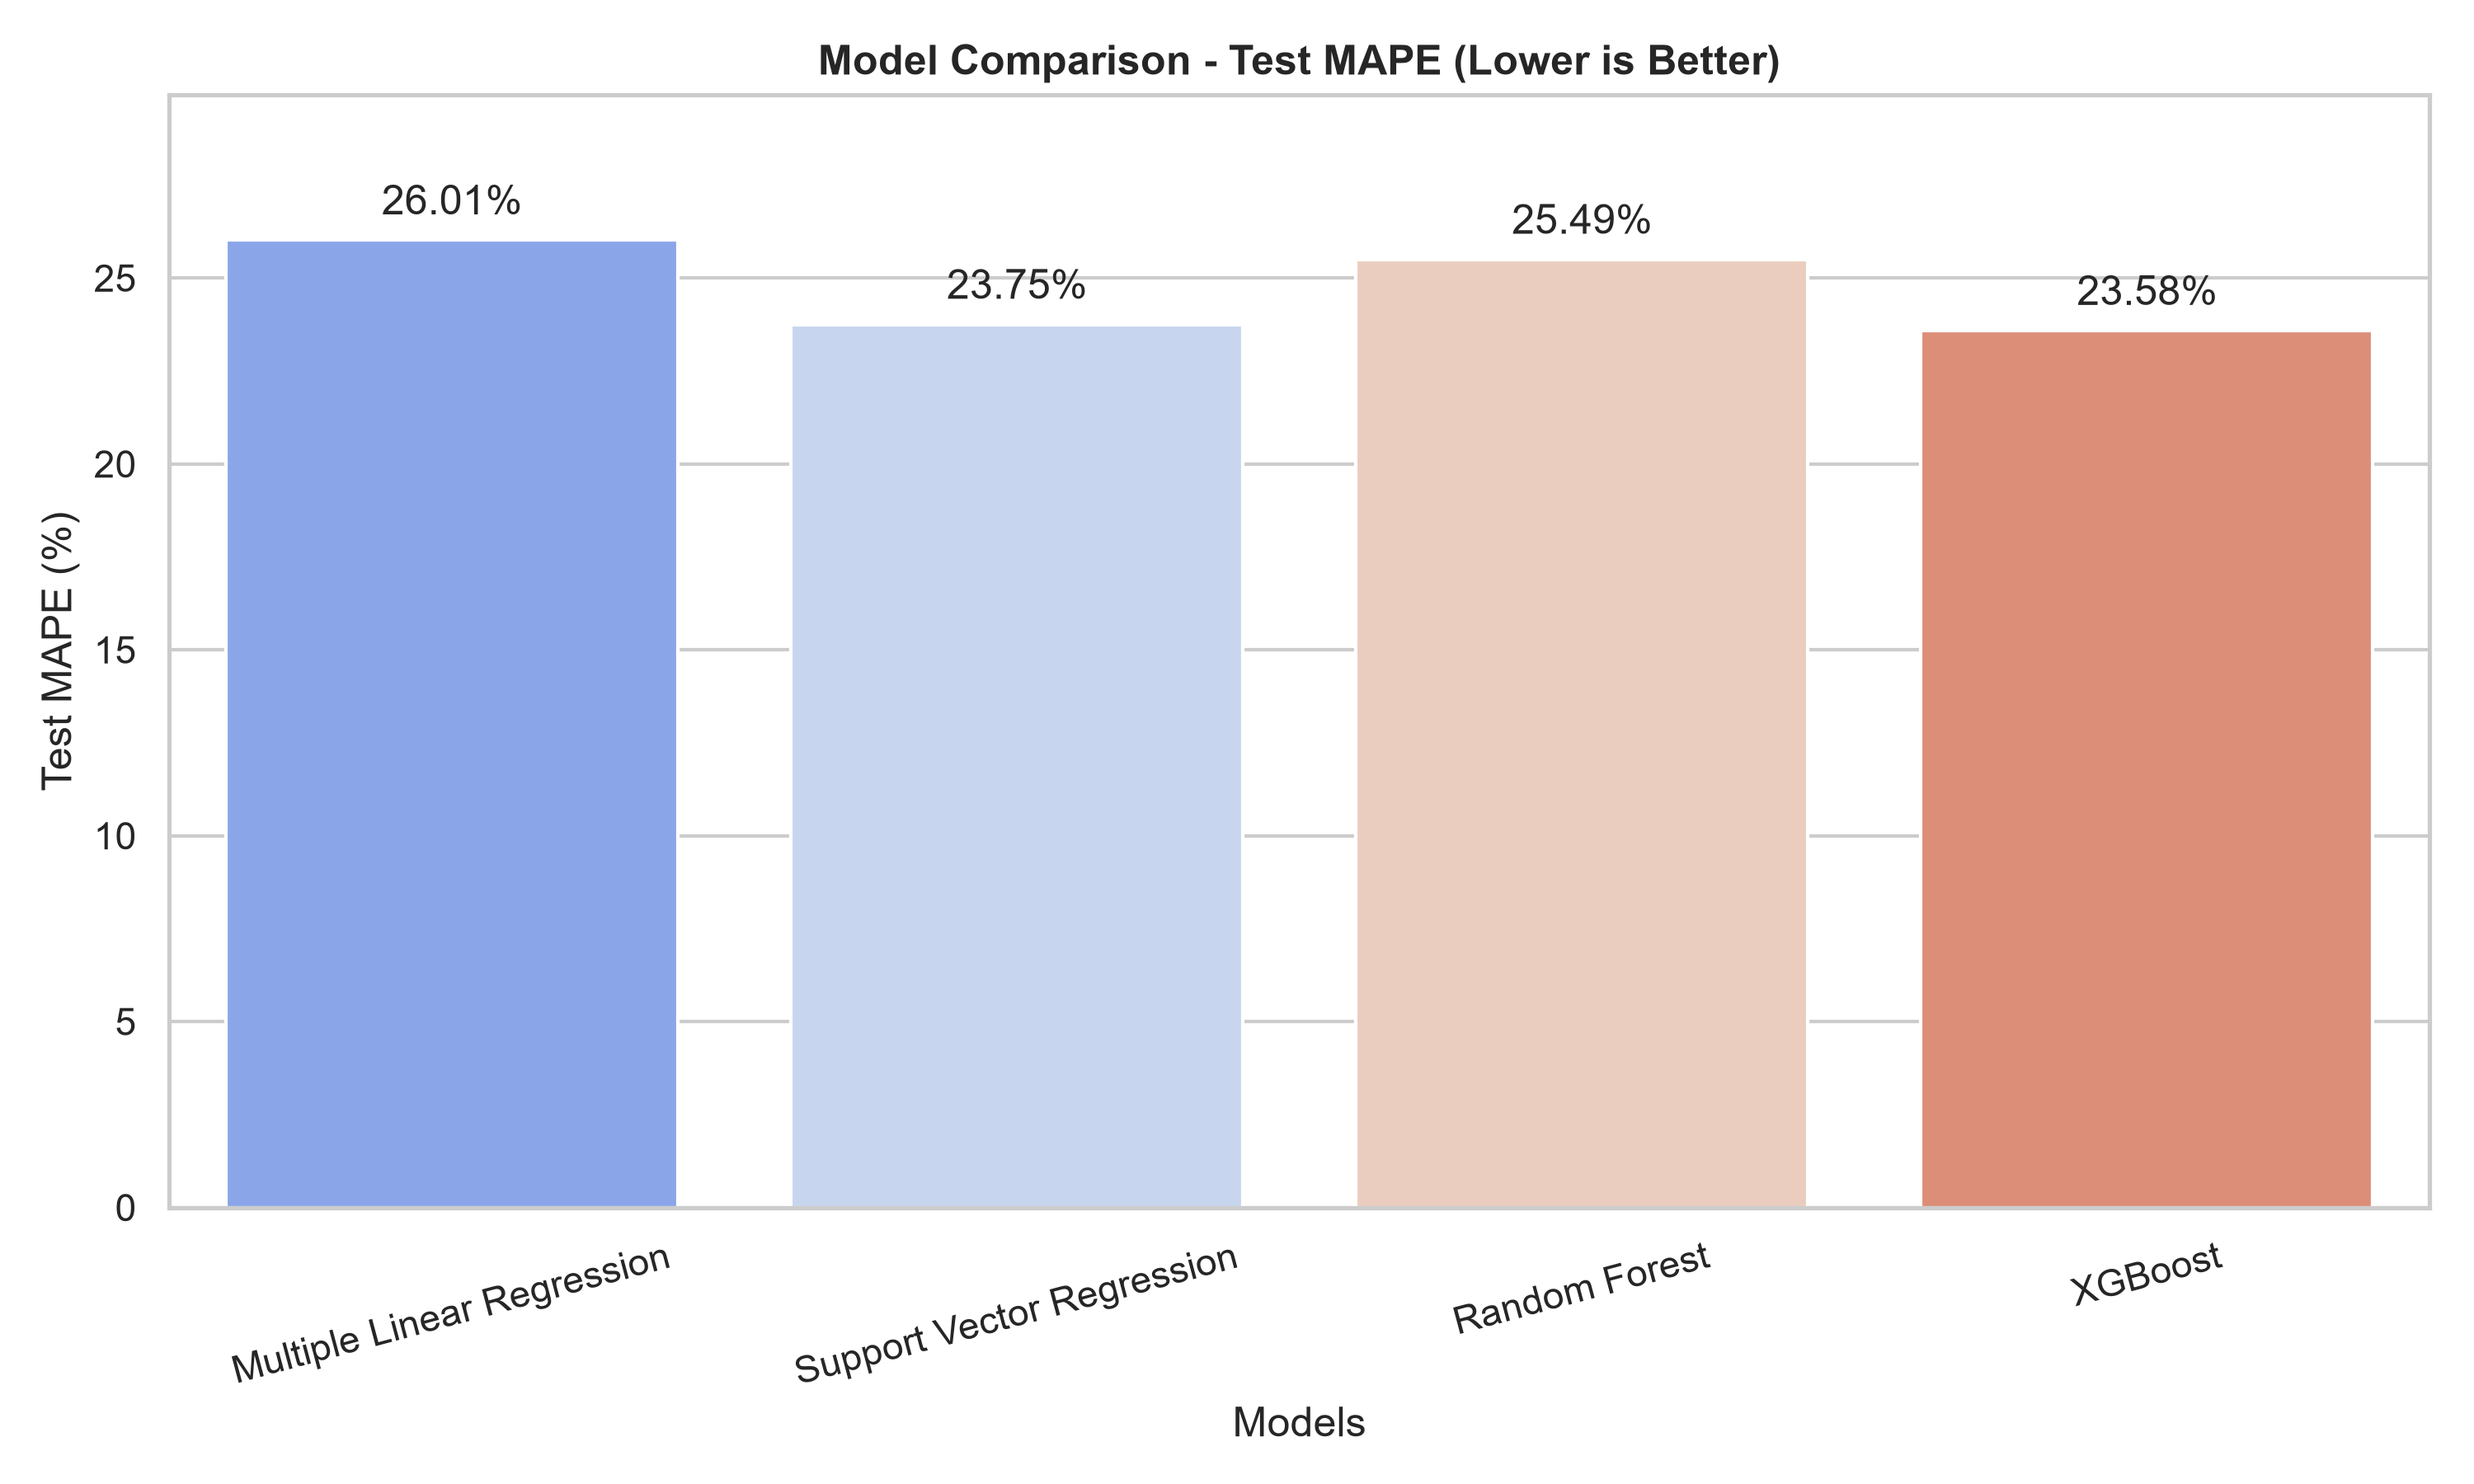
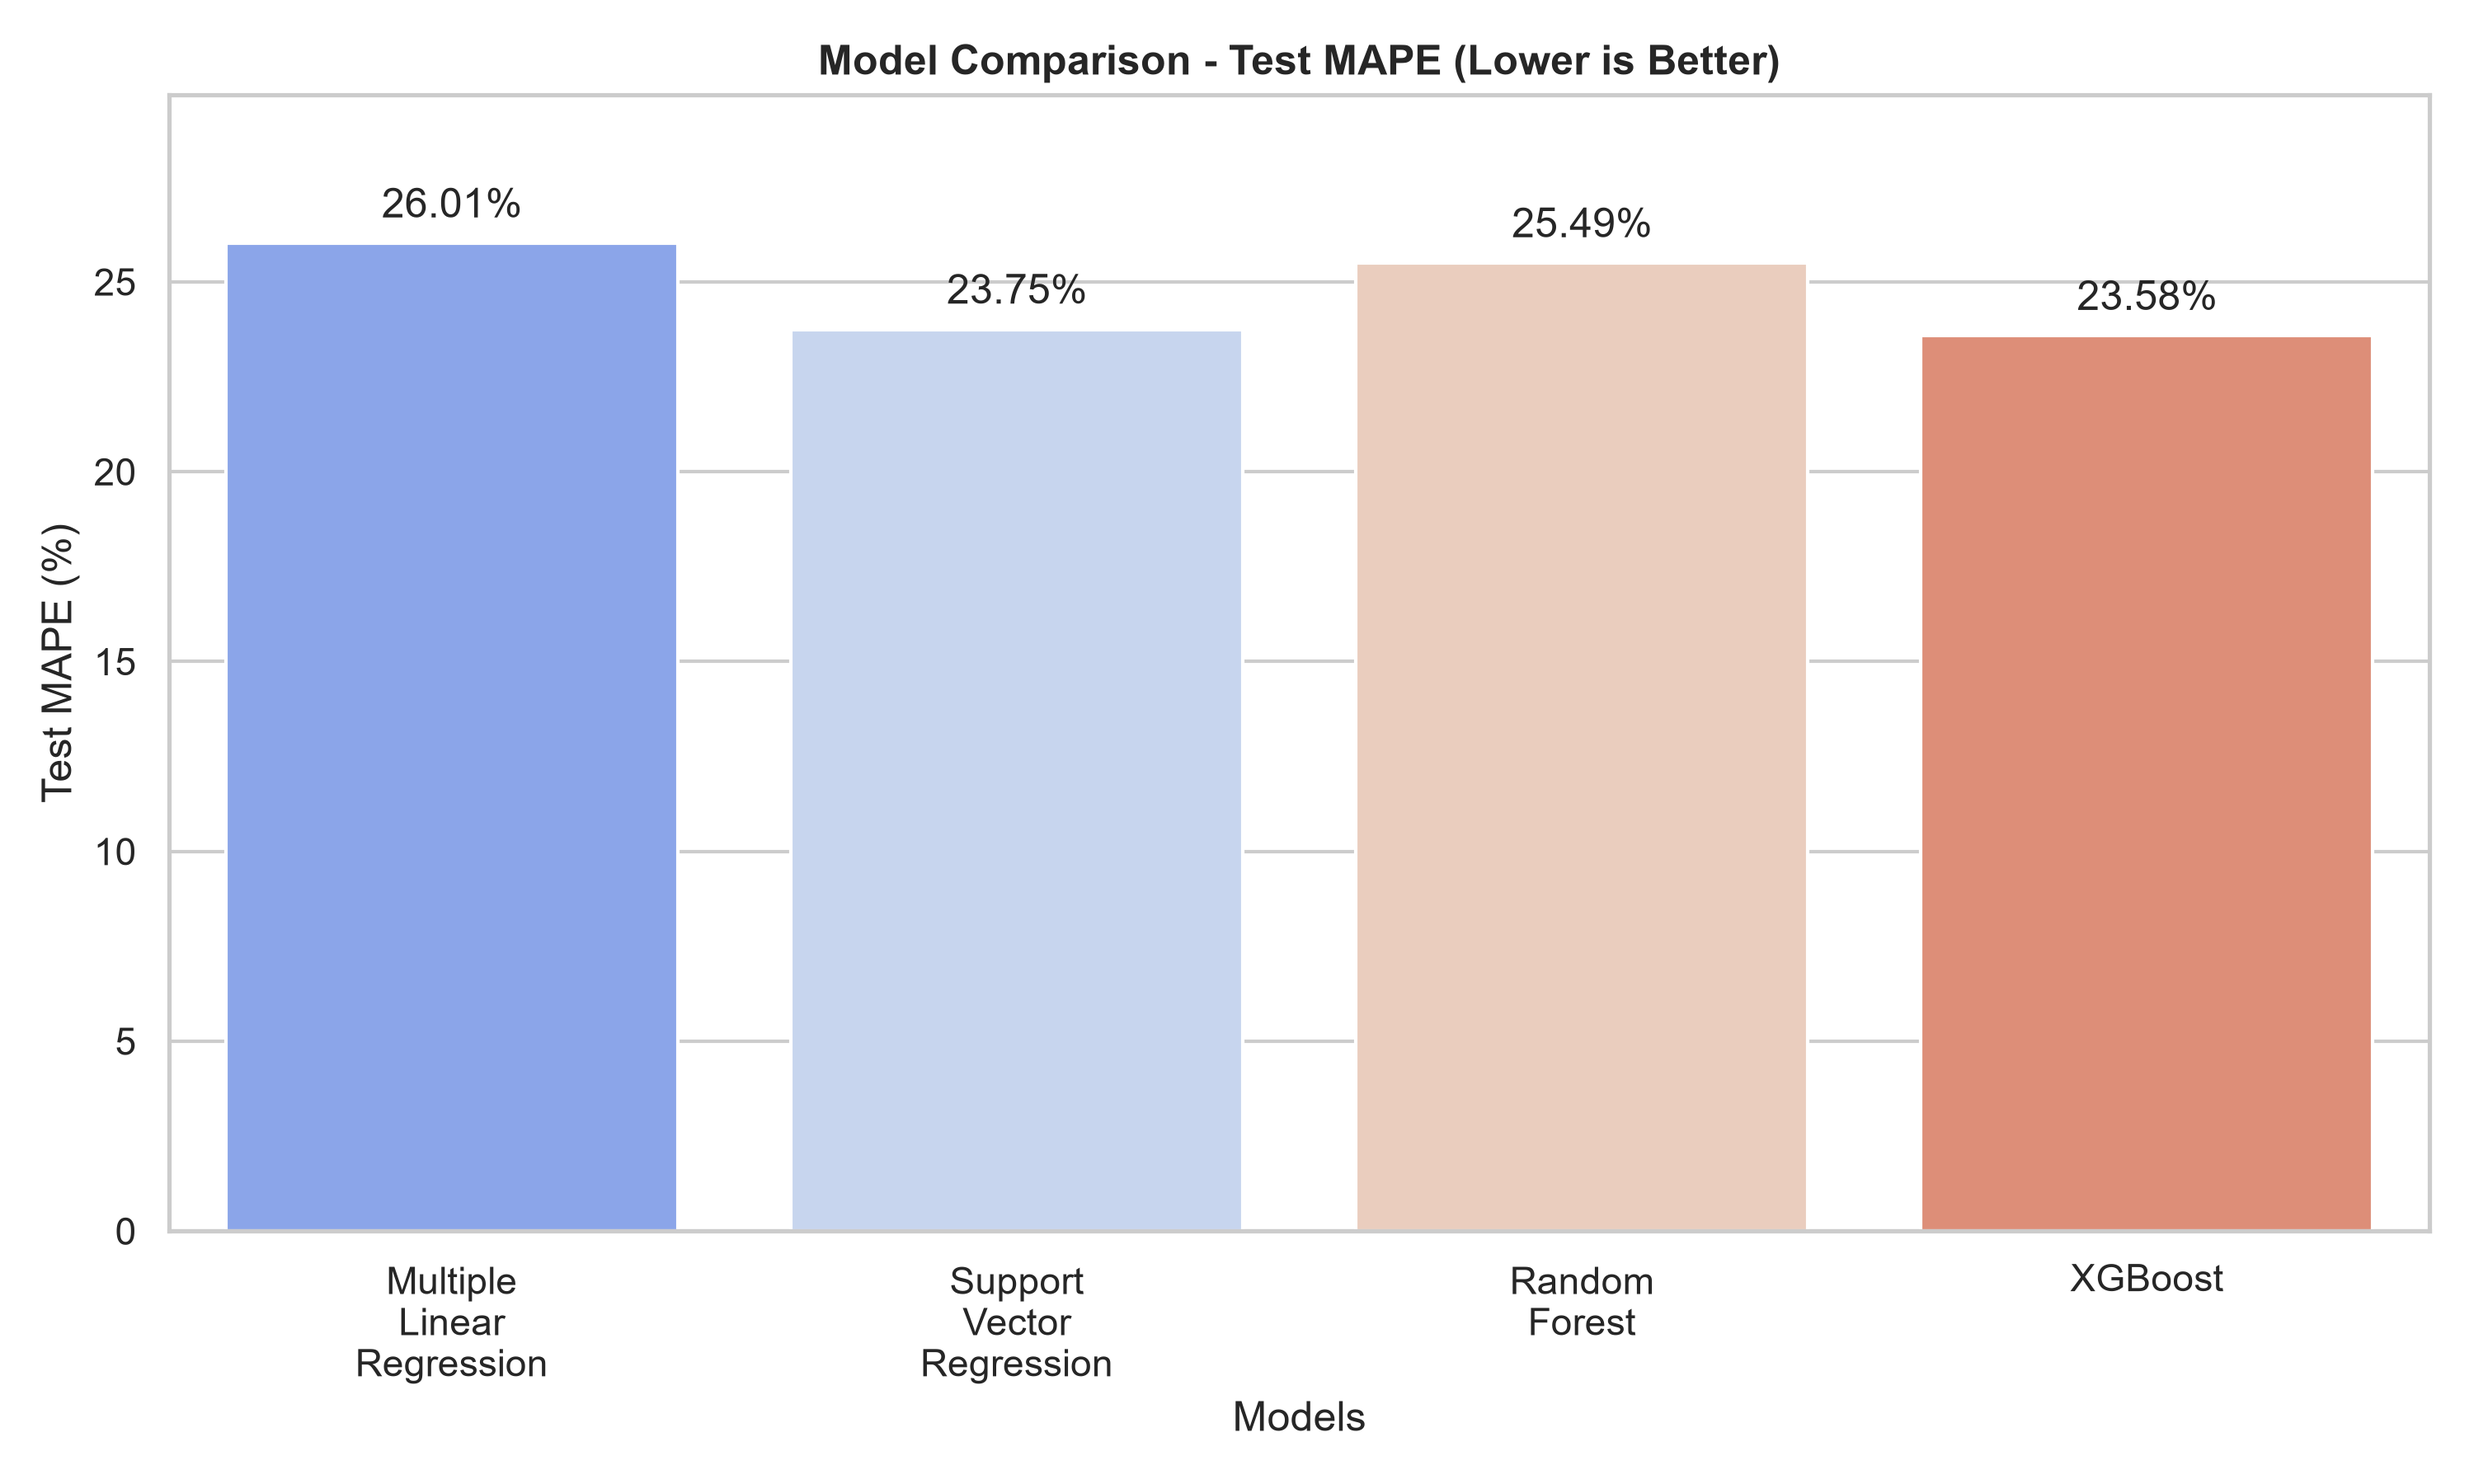
adjusted the plot visualization

diff --git a/src/model_visual.py b/src/model_visual.py
@@ -1,6 +1,7 @@
 import json
 from pathlib import Path
 import sys
+import textwrap
 import joblib
 import matplotlib.pyplot as plt
 import pandas as pd
@@ -14,6 +15,8 @@ from src.utils import load_raw_dataset, split_dataset
 
 
 def main():
+    if hasattr(sys.stdout, "reconfigure"):
+        sys.stdout.reconfigure(encoding="utf-8")
     data_path = project_root / "data" / "raw" / "malaysia_house_price_data_2025.csv"
     output_dir = project_root / "report_assets" / "plots"
     output_dir.mkdir(exist_ok=True)
@@ -118,6 +121,7 @@ def main():
             metrics_data = json.load(f)
 
         df_metrics = pd.DataFrame(metrics_data).T
+        wrapped_labels = [textwrap.fill(str(label), width=12) for label in df_metrics.index]
 
         # Chart: R² Comparison (Train vs Test side-by-side)
         import numpy as np
@@ -140,7 +144,7 @@ def main():
             color="#00b894",
         )
         ax.set_xticks(x)
-        ax.set_xticklabels(df_metrics.index, rotation=15)
+        ax.set_xticklabels(wrapped_labels, rotation=0, ha="center")
         ax.set_xlabel("Models")
         ax.set_ylabel("R² Score")
         ax.set_title(
@@ -173,10 +177,9 @@ def main():
         if "test_mae" in df_metrics.columns:
             fig, ax = plt.subplots(figsize=(10, 6))
             sns.barplot(
-                x=df_metrics.index,
-                y="test_mae",
-                data=df_metrics,
-                hue=df_metrics.index,
+                x=wrapped_labels,
+                y=df_metrics["test_mae"],
+                hue=wrapped_labels,
                 palette="Set2",
                 legend=False,
                 ax=ax,
@@ -199,7 +202,7 @@ def main():
                     xytext=(0, 5),
                     textcoords="offset points",
                 )
-            ax.tick_params(axis="x", rotation=15)
+            ax.tick_params(axis="x", rotation=0)
             ax.set_ylim(0, df_metrics["test_mae"].max() * 1.15)
             plt.tight_layout()
             plt.savefig(output_dir / "model_comparison_test_mae.png", dpi=300)
@@ -210,10 +213,9 @@ def main():
         if "test_rmse" in df_metrics.columns:
             fig, ax = plt.subplots(figsize=(10, 6))
             sns.barplot(
-                x=df_metrics.index,
-                y="test_rmse",
-                data=df_metrics,
-                hue=df_metrics.index,
+                x=wrapped_labels,
+                y=df_metrics["test_rmse"],
+                hue=wrapped_labels,
                 palette="muted",
                 legend=False,
                 ax=ax,
@@ -236,7 +238,7 @@ def main():
                     xytext=(0, 5),
                     textcoords="offset points",
                 )
-            ax.tick_params(axis="x", rotation=15)
+            ax.tick_params(axis="x", rotation=0)
             ax.set_ylim(0, df_metrics["test_rmse"].max() * 1.15)
             plt.tight_layout()
             plt.savefig(output_dir / "model_comparison_test_rmse.png", dpi=300)
@@ -248,9 +250,9 @@ def main():
             fig, ax = plt.subplots(figsize=(10, 6))
             mape_pct = df_metrics["test_mape"] * 100
             sns.barplot(
-                x=df_metrics.index,
+                x=wrapped_labels,
                 y=mape_pct,
-                hue=df_metrics.index,
+                hue=wrapped_labels,
                 palette="coolwarm",
                 legend=False,
                 ax=ax,
@@ -270,7 +272,7 @@ def main():
                     xytext=(0, 5),
                     textcoords="offset points",
                 )
-            ax.tick_params(axis="x", rotation=15)
+            ax.tick_params(axis="x", rotation=0)
             ax.set_ylim(0, (df_metrics["test_mape"].max() * 100) * 1.15)
             plt.tight_layout()
             plt.savefig(output_dir / "model_comparison_test_mape.png", dpi=300)
